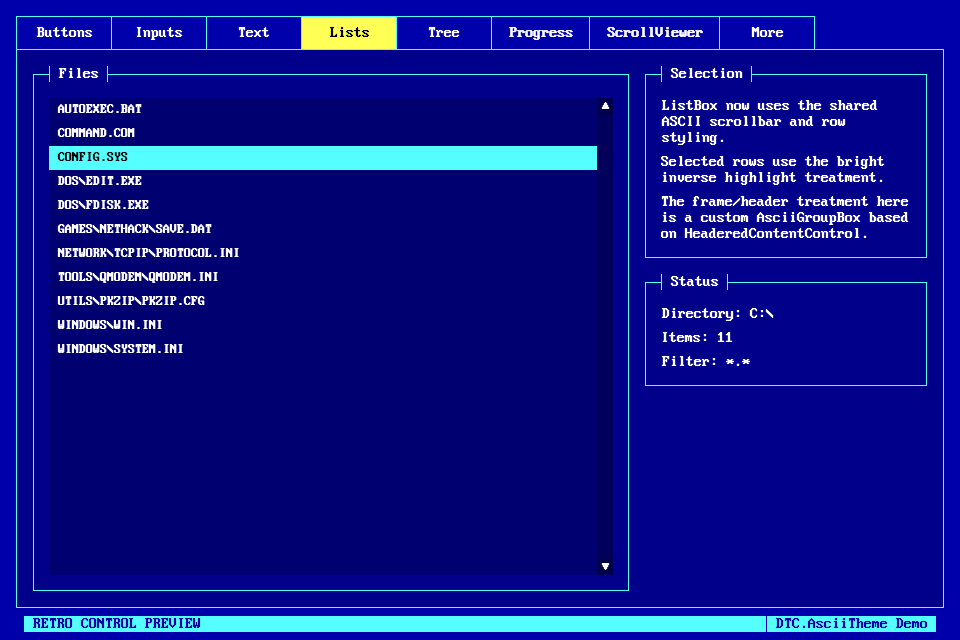
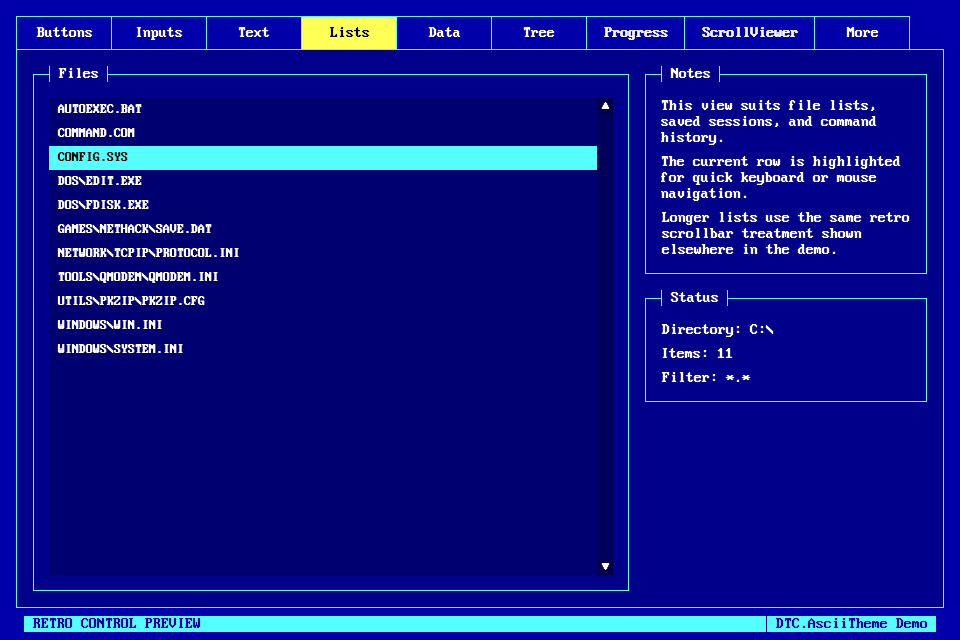
Feature: Add DataGrid control.

diff --git a/samples/DTC.AsciiTheme.Demo/MainWindow.axaml.cs b/samples/DTC.AsciiTheme.Demo/MainWindow.axaml.cs
@@ -24,6 +24,7 @@ public partial class MainWindow : Window
     public MainWindow()
     {
         InitializeComponent();
+        FileDataGrid.ItemsSource = CreateFileRows();
         m_animationTimer = new DispatcherTimer
         {
             Interval = TimeSpan.FromMilliseconds(80),
@@ -96,4 +97,21 @@ public partial class MainWindow : Window
     {
         MessageBoxResultTextBlock.Text = $"Last result: {result}";
     }
+
+    private static IReadOnlyList<DemoFileRow> CreateFileRows()
+    {
+        return
+        [
+            new("AUTOEXEC.BAT", "Batch", "1 KB", "1994-03-12 07:15"),
+            new("COMMAND.COM", "System", "54 KB", "1994-03-12 07:15"),
+            new("CONFIG.SYS", "Config", "2 KB", "1994-03-12 07:16"),
+            new("EDIT.EXE", "Program", "69 KB", "1993-11-08 18:42"),
+            new("FDISK.EXE", "Program", "30 KB", "1993-11-08 18:42"),
+            new("NETWORK.INI", "Settings", "4 KB", "1995-01-21 09:03"),
+            new("PKZIP.EXE", "Program", "42 KB", "1992-08-19 20:10"),
+            new("README.TXT", "Text", "7 KB", "1995-01-21 09:10"),
+        ];
+    }
 }
+
+public sealed record DemoFileRow(string Name, string Type, string Size, string Modified);

diff --git a/README.md b/README.md
@@ -3,7 +3,7 @@
 # DTC.AsciiTheme
 DTC.AsciiTheme is a reusable Avalonia theme library for building apps that feel like classic DOS utilities, BBS tools, setup screens, and text-mode file managers, while still using real Avalonia controls underneath. The goal is not terminal emulation, but a practical control theme that keeps modern bindings, layout, focus, and input behavior intact.
 
-![Buttons tab screenshot](img/buttons.png)
+![Data tab screenshot](img/data.png)
 
 ## Demo tabs
 ### Buttons
@@ -26,6 +26,11 @@ Demonstrates `ListBox` together with the custom `AsciiGroupBox` framing and sele
 
 ![Lists tab screenshot](img/lists.png)
 
+### Data
+Demonstrates a first-pass `DataGrid` with ASCII-styled headers, sort arrows, row selection, grid lines, and shared scrollbar treatment.
+
+![Data tab screenshot](img/data.png)
+
 ### Tree
 Demonstrates `TreeView`, ASCII expand/collapse arrows, selection, and nested hierarchy rendering.
 
@@ -40,19 +45,21 @@ Demonstrates horizontal and vertical `ProgressBar`, including animated bars and 
 
 Demonstrates shared `ScrollViewer`/`ScrollBar` styling with a dithered retro image preview.
 
+![ScrollViewer tab screenshot](img/scrollviewer.png)
+
 ### More
-Demonstrates `Menu`, `Expander`, `Slider`, `ToolTip`, and the footer `AsciiStatusBar`.
+Demonstrates `Menu`, `AsciiMessageBox`, `Expander`, `Slider`, `ToolTip`, and the footer `AsciiStatusBar`.
 
 ![More tab screenshot](img/more.png)
 
-![ScrollViewer tab screenshot](img/scrollviewer.png)
-
 ## What it currently styles
+- `AsciiMessageBox`
 - `AsciiGroupBox`
 - `AsciiStatusBar`
 - `Button`
 - `CheckBox`
 - `ComboBox`
+- `DataGrid`
 - `Expander`
 - `Label`
 - `ListBox`
@@ -60,6 +67,7 @@ Demonstrates `Menu`, `Expander`, `Slider`, `ToolTip`, and the footer `AsciiStatu
 - `ProgressBar`
 - `RadioButton`
 - `ScrollBar`
+- `ScrollViewer`
 - `Separator`
 - `Slider`
 - `TabControl`
